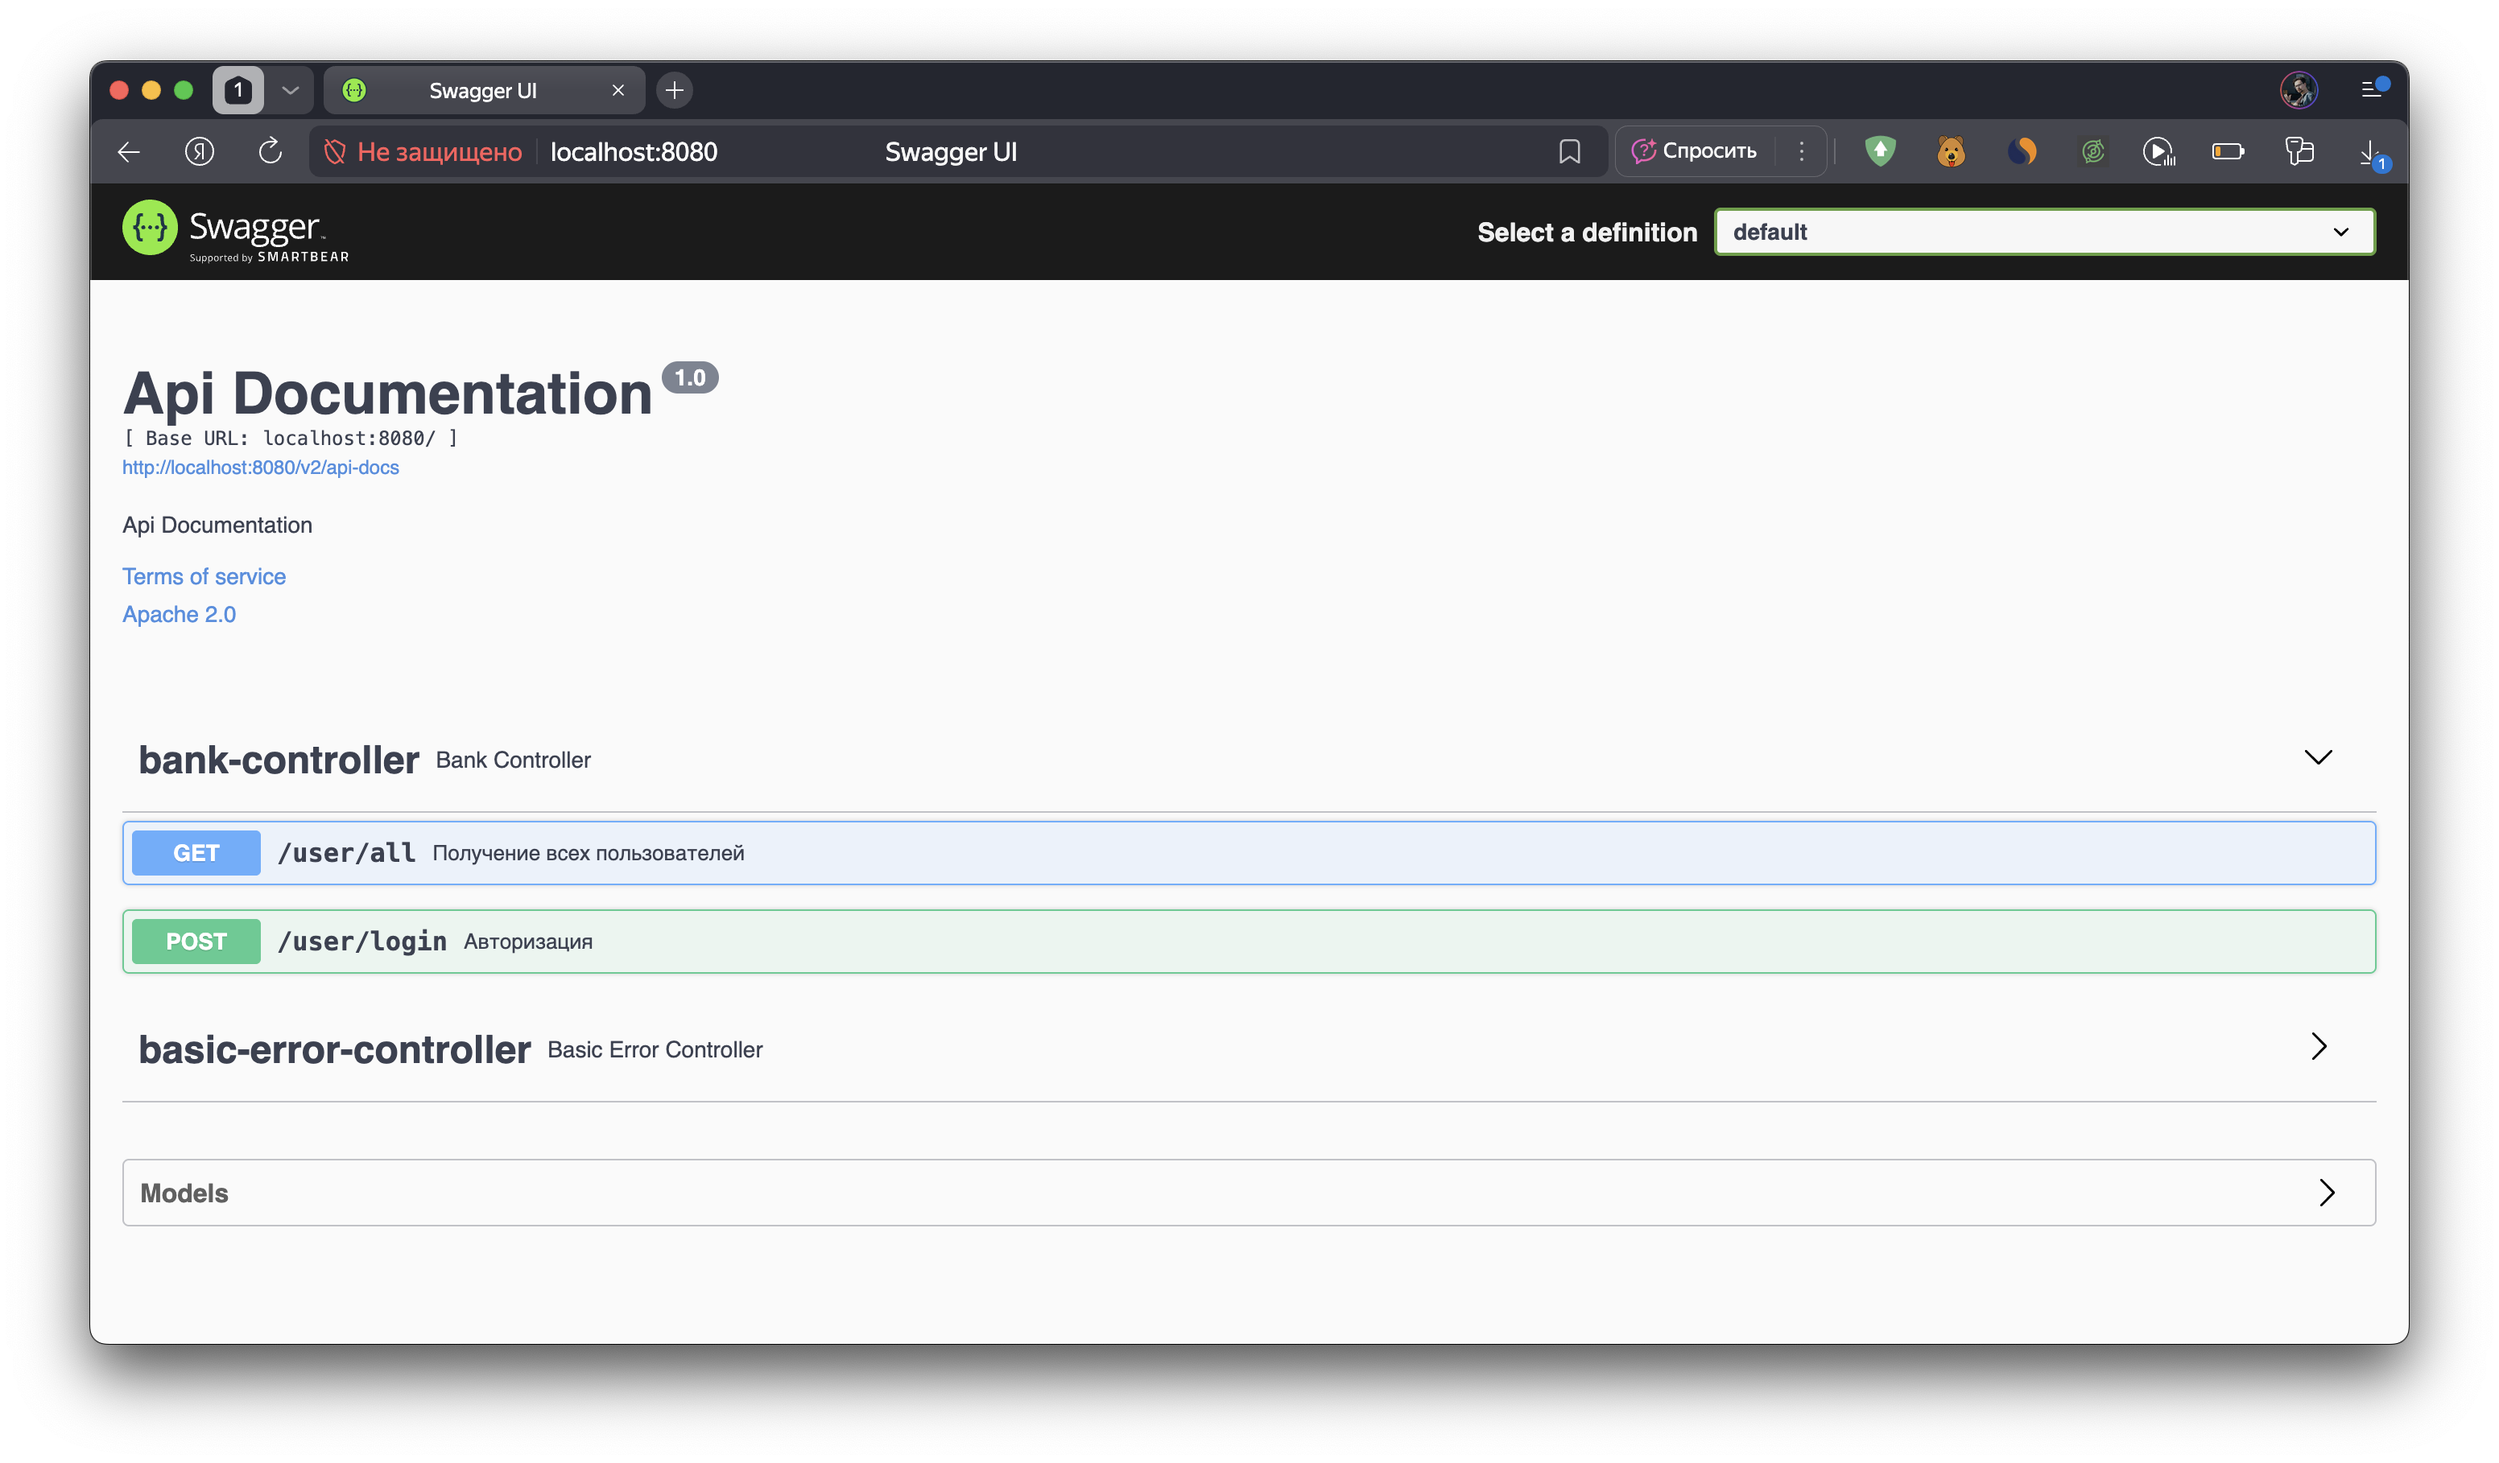
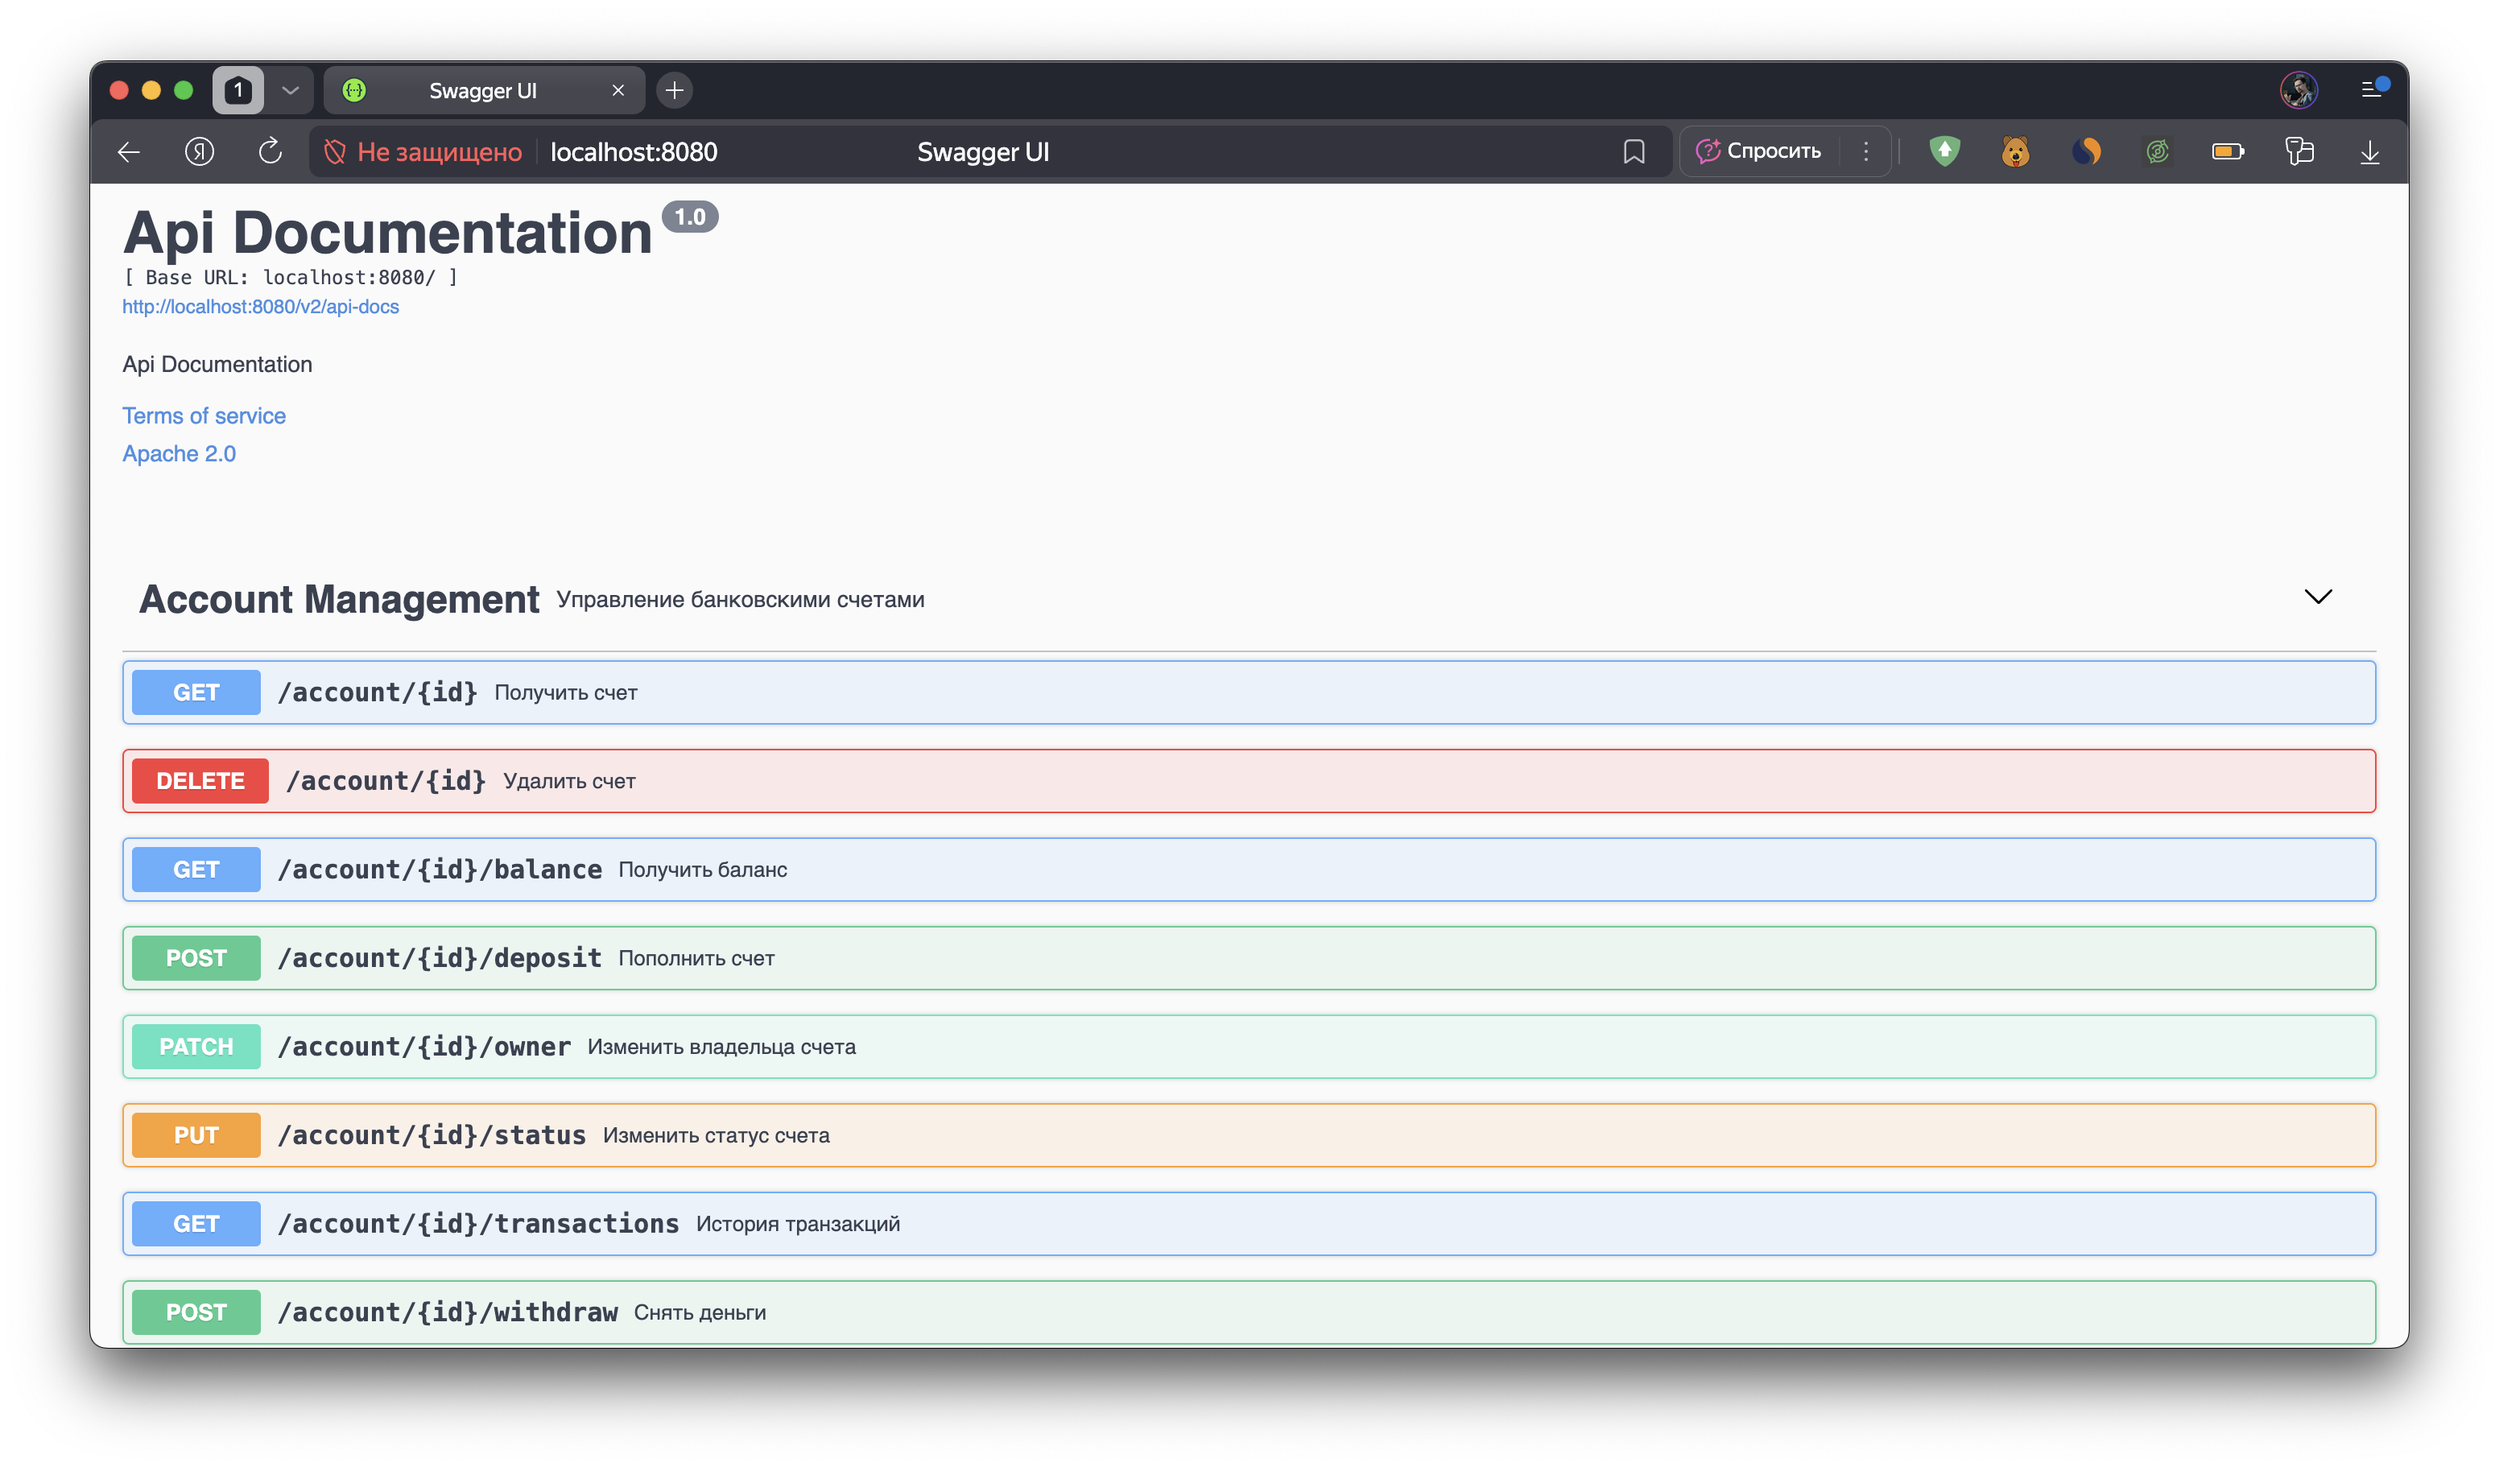
updated README.md

Changed region(s): [[0.0312, 0.2464, 0.9375, 0.9241], [0.0312, 0.0924, 0.9688, 0.2156], [0.9062, 0.4928, 0.9375, 0.5237]]

diff --git a/README.md b/README.md
@@ -1,67 +1,102 @@
 # REST Backend Service
 
-Небольшой учебный backend-сервис на **Spring Boot**, предоставляющий REST-эндпоинты для авторизации пользователя и получения списка всех пользователей. Проект также включает автоматические тесты на **RestAssured** и интеграцию **Swagger** для документации API.
+Небольшой учебный backend-сервис на **Spring Boot**, предоставляющий REST-эндпоинты для управления счетами, транзакциями и пользователями. Все ключевые бизнес-потоки покрыты интеграционными тестами на **RestAssured + JUnit5**. Отчётность реализована через **Allure**, документация API — через **Swagger**.
+
+## 🛠 Стек технологий
+
+- Java 17
+- Spring Boot 2.x
+- RestAssured, JUnit5, AssertJ
+- Allure (отчетность), Owner
+- Swagger 2 (OpenAPI)
 
 ## 📁 Структура проекта
 
 ```
-src/  
-├── main/  
-│ ├── java/guru/qa/restbackend/  
-│ │ ├── RestBackendApplication.java # Точка входа, Swagger config  
-│ │ ├── controller/BankController.java # REST-контроллер  
-│ │ ├── domain/ # DTO  
-│ │ └── exception/InvalidUsernameException.java  
-│ └── resources/application.properties  
-└── test/  
-├── java/guru/qa/restbackend/  
-│ ├── config/AuthConfig.java # Конфигурация тестовых данных  
-│ ├── specs/BaseSpecs.java # RestAssured спецификации  
-│ └── tests/ # Набор автотестов  
-└── resources/auth.properties  
+src/
+├── main/
+│ └── java/guru/qa/restbackend/
+│       ├── RestBackendApplication.java
+│       ├── controller/
+│       ├── domain/
+│       ├── exception/
+│       └── service/
+│ └── resources/
+│       └── application.properties
+└── test/
+    └── java/guru/qa/restbackend/
+        ├── config/
+        ├── helpers/
+        ├── specs/
+        └── tests/
+    └── resources/
+        └── auth.properties
 ```
 
+## 🚀 Основная функциональность
 
-## 🚀 Функциональность
+- **Создание, пополнение, снятие, перевод и удаление банковских счетов**
+- **Получение баланса, истории транзакций, статуса и владельца счета**
+- **Авторизация и список пользователей**
+- **Обработка ошибок: проверки баланса, статуса, неверных данных**
 
-### **POST /user/login** — Авторизация
-Принимает `LoginInfo` и возвращает информацию о пользователе при корректном логине (`userName = Sergey`).
+## 🧪 Автотесты
 
-### **GET /user/all** — Список пользователей
-Возвращает статический список: `Dima`, `Alex`, `Dasha`.
+Все бизнес-сценарии покрыты автотестами c RestAssured:
+- 🟢 CRUD операции с аккаунтом
+- 🟢 Транзакции: пополнение, снятие, перевод
+- 🟢 Проверка баланса, статуса, владельца
+- 🟢 Авторизация
+- 🟢 Edge cases и обработка ошибок
 
-## 🧪 Тестирование
+### Запуск тестов и Allure-отчета
 
-Используется **JUnit5 + RestAssured**.
+1. Запустить проект: `gradle bootRun`
+2. Запустить тесты: `gradle clean test`
+3. Сформировать и открыть отчет:  
+   `gradle allureReport`  
+   `gradle allureServe`
 
-Покрыто три сценария:
-- успешное получение всех пользователей
-- успешная авторизация
-- неуспешная авторизация
-
-Тестовые данные берутся из `auth.properties`.
+Allure автоматически откроет отчет в браузере.
 
 ## 📘 Swagger UI
 
-После запуска доступен по адресу: http://localhost:8080/swagger-ui/#/
+Документация API доступна после старта по адресу: http://localhost:8080/swagger-ui/#/
 
 <p>
 <img title="Allure report" src="images/Swagger-UI.png">
 </p>
 
+## 🖼 Пример Allure-отчета
 
-## ▶ Запуск проекта и тестов
+Главная страница отчета:
 
-Запустить проект в классе:
-[RestBackendApplication.java](src/main/java/guru/qa/restbackend/RestBackendApplication.java)  
-Или из терминала по команде
-`
-gradle bootRun
-`
+<p>
+<img title="Allure report" src="images/allure-report-result.png">
+</p>
 
-Запустить тесты из класса:
-[BankControllerTest.java](src/test/java/guru/qa/restbackend/tests/BankControllerTest.java)  
-Или из терминала по команде:
-`
-gradle clean test
-`
+Тест-кейсы:
+
+<p>
+<img title="Allure report" src="images/allure-report-test-cases.png">
+</p>
+
+Сортировка по Feature и Story:
+
+<p>
+<img title="Allure report" src="images/allure-report-feature-story.png">
+</p>
+
+## ✨ Как устроена архитектура тестов
+
+- **TestApiHelper** — универсальные методы для HTTP операций.
+- **ResponseHelpers** — парсинг результатов.
+- **Parameterization & Data Isolation** — независимые тестовые сценарии.
+- **Allure-аннотации** — структурируют отчёт и показывают сценарии по категориям.
+
+## ⚡ Быстрый старт для разработчика
+
+- Требуется JDK 17+
+- Порт по умолчанию: 8080
+- Тестовые данные — внутри `TestDataInitializer.java`
+- Swagger подтягивает описание эндпоинтов
